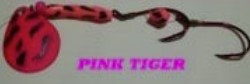
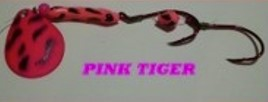
added over 50 new photos of products for image switching to use in the shop pages, optmized _productimages.js more to be easier to add more images in the future

diff --git a/frontend/src/utils/_productimages.js b/frontend/src/utils/_productimages.js
@@ -10,74 +10,154 @@
 // list of all the main images of a product
 const mainImages = [
     [   // Bling Bling
-        {type: 'image', url: require("./images/blingblingblackrussian.jpg")},   // when you come back, make sure to add all photos needed and run tests
-        {type: 'image', url: require("./images/pinacoloda.jpg")},
+        "blingblingblackrussian.jpg",
+        "blingblingsangria.jpg",
+        "blingblinggreengoblin.jpg",
+        "blingblingelectrickamikazi.jpg",
+        "blingblingpurplerain.jpg",
+        "blingblingwatermelon.jpg",
     ],
     [   // Cocktails
-        {type: 'image', url: require("./images/pinacoloda.jpg")},
+        "cocktailpinacolada.jpg",
+        "cocktailcosmo.jpg",
+        "cocktailmaitai.jpg",
+        "cocktailkaluhancream.jpg",
+        "cocktaildaquiri.jpg",
+        "cocktailappletini.jpg",
+        "cocktailmojito.jpg",
+        "cocktailtequilasunrize.jpg",
+        "cocktaildeeppurple.jpg",
+        "cocktailsingaporesling.jpg",
     ],
     [   // DS Dodgers
-        {type: 'image', url: require("./images/DSwatermelondodger.jpg")},
+        "DSwatermelondodger.jpg",
+        "DShoneydontdodger.jpg",
+        "DScantaloupedodger.jpg",
     ],
     [   // Firetiger
-        {type: 'image', url: require("./images/firetigeruv.jpg")},
+        "firetigeruv.jpg",
+        "firetigerglow.jpg",
+        "firetigerbling.jpg",
     ],
     [   // Gold Diggers
-        {type: 'image', url: require("./images/golddiggerblack.jpg")}, 
+        "golddiggerblack.jpg",
+        "golddiggerpurple.jpg",
+        "golddiggerred.jpg",
+        "golddiggergreen.jpg",
+        "golddiggerblue.jpg",
+        "golddiggerorange.jpg",
     ],
     [   // Honey Drippers
-        {type: 'image', url: require("./images/honeydripperpink.jpg")},
+        "honeydripperpink.jpg",
+        "honeydrippergreen.jpg",
+        "honeydripperorange.jpg",
+        "honeydripperchartreuse.jpg",
+        "honeydripperpurple.jpg",
     ],
     [   // Lil Comets
-        {type: 'image', url: require("./images/hollysrubyslipper.jpg")},
+        "lilcometshollysrubyslipper.jpg",
+        "lilcometsaclockworkorange.jpg",
+        "lilcometsthegreenhornet.jpg",
+        "lilcometskermit.jpg",
+        "lilcometstheflash.jpg",
+        "lilcometssourgrapes.jpg",
+        "lilcometswatermelonsugar.jpg",
+        "lilcometsbluelagoon.jpg",
+        "lilcometsthepinkanator.jpg",
     ],
     [   // Melons
-        {type: 'image', url: require("./images/watermelon.jpg")},
+        "melonswatermelon.jpg",
+        "melonsallglowwatermelon.jpg",
+        "blingblingwatermelon.jpg",
+        "melonshoneydont.jpg",
+        "melonscantaloupe.jpg",
     ],
     [   // Plum Crazy
-        {type: 'image', url: require("./images/purplenurple.jpg")},
+        "plumcrazypurplenurple.jpg",
+        "plumcrazyrazzledazzle.jpg",
+        "plumcrazygoldnplum.jpg",
     ],
     [   // Premium UV
-        {type: 'image', url: require("./images/premiumuvpink.jpg")},
+        "premiumuvpink.jpg",
+        "premiumuvgreen.jpg",
+        "premiumuvorange.jpg",
+        "premiumuvchartreuse.jpg",
     ],
     [   // Tiger
-        {type: 'image', url: require("./images/tigerpink.jpg")},
+        "tigerpink.jpg",
+        "tigergreen.jpg",
+        "tigerorange.jpg",
+        "tigerchartreuse.jpg",
+        "tigerblue.jpg",
+        "tigerglowpurple.jpg",
+        "tigerglow.jpg",
     ],
     [   // Wonderbread
-        {type: 'image', url: require("./images/wonderbreadoriginal.jpg")},
+        "wonderbreadoriginal.jpg",
+        "wonderbreadbling.jpg",
+        "wonderbreadgolden.jpg",
     ]
 ];
 
 // list of all type variants of a product
 const typeImages = [
     [   // Bling Bling
-        {type: 'image', url: require("./images/blingblingcherryfizz.jpg")},     // only test bling bling for image switching
-        {type: 'image', url: require("./images/blingblingcherryfizz.jpg")},
+        "blingblingcherryfizz.jpg",
+        "blingblingirishmist.jpg",
+        "blingblingmimosa.jpg",
+        "blingblingshamrock.jpg",
     ],
     [   // Cocktails
-        {type: 'image', url: require("./images/pinacolodadodger.jpg")},
+        "cocktailpinacoladadodger.jpg",
+        "cocktailcosmododger.jpg",
+        "cocktailkaluhancreamdodger.jpg",
+        "cocktaildaquiridodger.jpg",
+        "cocktailappletinidodger.jpg",
+        "cocktailmojitododger.jpg",
+        "cocktailsingaporeslingdodger.jpg",
     ],
     null,   // DS Dodgers
     null,   // Firetiger
     [   // Gold Diggers
-       {type: 'image', url: require("./images/flogolddiggerpink.jpg")}, 
+       "flogolddiggerpink.jpg",
+       "flogolddiggergreen.jpg",
+       "flogolddiggerorange.jpg",
+       "flogolddiggerchartreuse.jpg",
     ],
     [   // Honey Drippers
-        {type: 'image', url: require("./images/honeydripperdodgerpink.jpg")},
+        "honeydripperpinkdodger.jpg",
+        "honeydrippergreendodger.jpg",
+        "honeydripperorangedodger.jpg",
+        "honeydripperchartreusedodger.jpg",
+        "honeydripperpurpledodger.jpg",
     ],
     [   // Lil Comets
-        {type: 'image', url: require("./images/hollysrubyslipperdodger.jpg")},
+        "lilcometshollysrubyslipperdodger.jpg",
+        "lilcometsaclockworkorangedodger.jpg",
+        "lilcometsthegreenhornetdodger.jpg",
+        "lilcometskermitdodger.jpg",
+        "lilcometstheflashdodger.jpg",
+        "lilcometssourgrapesdodger.jpg",
+        "lilcometswatermelonsugardodger.jpg",
+        "lilcometsbluelagoondodger.jpg",
+        "lilcometsthepinkanatordodger.jpg",
     ],
     [   // Melons
-        {type: 'image', url: require("./images/watermelondodger.jpg")},
+        "melonswatermelondodger.jpg",
+        "melonshoneydontdodger.jpg",
+        "melonscantaloupedodger.jpg",
     ],
     [   // Plum Crazy
-        {type: 'image', url: require("./images/purplenurpledodger.jpg")},
+        "plumcrazypurplenurpledodger.jpg",
+        "plumcrazyrazzledazzledodger.jpg",
+        "plumcrazygoldnplumdodger.jpg",
     ],
     null,   // Premium UV
     null,   // Tiger
     [   // Wonderbread
-        {type: 'image', url: require("./images/wonderbreaddodgeroriginal.jpg")},
+        "wonderbreadoriginaldodger.jpg",
+        "wonderbreadblingdodger.jpg",
+        "wonderbreadgoldendodger.jpg",
     ]
 ];
 
@@ -100,16 +180,32 @@ for (let i = 0; i < mainImages.length; i++) {
     const mainImageList = mainImages[i];
     const typeImageList = typeImages[i];
 
+    const newMainImageList = [];
+    const newTypeImageList = [];
+
+    for (let j = 0; j < mainImageList.length; j++) {
+        newMainImageList.push({type: 'image', url: require("./images/" + mainImageList[j])});
+    }
+
+    if (typeImageList) {     // checks if the list is null or not
+        for (let k = 0; k < typeImageList.length; k++) {
+            newTypeImageList.push({type: 'image', url: require("./images/" + typeImageList[k])});
+        }        
+    }
+    else {
+        newTypeImageList.push(null);
+    }
+
     // Create the structure for this iteration
-    const mediaItem = [
+    const productImgs = [
         [
-            mainImageList
+            newMainImageList
         ],
         [
-            typeImageList   // if null it will put null inside this list
+            newTypeImageList
         ]
     ];
 
     // Push the mediaItem to ProductsMedia
-    ProductsMedia.push(mediaItem);
+    ProductsMedia.push(productImgs);
 };

diff --git a/frontend/src/components/ShopPanel/Products.js b/frontend/src/components/ShopPanel/Products.js
@@ -56,11 +56,11 @@ const product_prices = [
 // all product options
 const product_options = [
     ["Black Russian", "Sangria", "Green Goblin", "Electric Kamikazi", "Purple Rain", "Watermelon"], // Bling Bling
-    ["Pina Colada", "Cosmo", "Mai Tai", "Kaluaha N Cream", "Daquiri", "Appletini", "Mojito", "Tequilla Sunrize", "Deep Purple", "Sinapore Sling"],  // Cocktails
+    ["Pina Colada", "Cosmo", "Mai Tai", "Kaluha N Cream", "Daquiri", "Appletini", "Mojito", "Tequilla Sunrize", "Deep Purple", "Sinapore Sling"],  // Cocktails
     ["Watermelon", "Honey Don't", "Cantaloupe"],    // DS Dodgers
     ["UV Firetiger", "Glowing Firetiger", "Bling Firetiger"],   // Firetiger
     ["Black", "Purple", "Red", "Green", "Blue", "Orange"],   // Gold Diggers
-    ["Pink", "Green", "Orange", "Chartruese", "Purple"],    // Honey Drippers
+    ["Pink", "Green", "Orange", "Chartreuse", "Purple"],    // Honey Drippers
     ["Holly's Ruby Slipper", "A Clockwork Orange", "The Green Hornet", "Kermit", "The Flash", "Sour Grapes", "Watermelon Sugar", "Blue Lagoon", "The Pinkanator"],  // Lil Comets
     ["Watermelon", "All Glow Watermelon", "Bling Melon", "Honey Don't", "Cantaloupe"],   // Melons
     ["Purple Nurple", "Razzle Dazzle", "Gold N Plum"],   // Plum Crazy
@@ -100,7 +100,7 @@ const product_dodgers = [
         hosted_button_id: "JSK5UU2SZT63S",
         productName: "Honey Dripper",
         price: 7.49,
-        options: ["Pink", "Green", "Orange", "Chartruese", "Purple"],
+        options: ["Pink", "Green", "Orange", "Chartreuse", "Purple"],
     },  // Honey Drippers
     {
         hosted_button_id: "LRHUVNNZD9LRN",
@@ -112,7 +112,7 @@ const product_dodgers = [
         hosted_button_id: "NJXCEJKUBRKH2",
         productName: "Melon",
         price: 6.99,
-        options: ["Watermelon", "Honey Don't", "The Green Hornet"],
+        options: ["Watermelon", "Honey Don't", "Cantaloupe"],
     },  // Melons
     {
         hosted_button_id: "UU9TH8P32ZESE",

diff --git a/frontend/static/css/shop.css b/frontend/static/css/shop.css
@@ -109,6 +109,7 @@
     max-width: 100%;
     max-height: 100%;
     border-radius: 5px;
+    border: 2px solid rgb(90, 90, 90);
 }
 
 .back-to-shop-img {
@@ -293,6 +294,11 @@
 }
 
 @media only screen and (max-width: 350px) {
+    .add-cart-product-name, .add-cart-product-name-top-type,
+    .add-cart-product-name-bottom-type {
+        font-size: 30px;
+    }
+    
     .shop-list-product-name {
         font-size: 19.4px;
     }
@@ -311,13 +317,13 @@
 @media only screen and (max-width: 320px) {
     .add-cart-product-name, .add-cart-product-name-top-type,
     .add-cart-product-name-bottom-type {
-        font-size: 30px;
+        font-size: 28px;
     }
 }
 
 @media only screen and (max-width: 311px) {
     .shop-list-product-name {
-        font-size: 26px;
+        font-size: 24px;
     }
 
     .product-item {

diff --git a/frontend/src/components/ShopPanel/AddToCartPanel.js b/frontend/src/components/ShopPanel/AddToCartPanel.js
@@ -11,7 +11,6 @@ const AddToCartPanel = ({ currentProduct, isSpinBug, isDodger, isFlourescent }) 
     const [currentFlourescentProductImg, setCurrentFlourescentProductImg] = useState('');
     const [currentProductImg, setCurrentProductImg] = useState('');
 
-    // which type of product to create panel for
     useEffect(() => {
         if (isDodger) {
             setCurrentDodgerProductImg(product.productImageList[0].url);
@@ -38,6 +37,7 @@ const AddToCartPanel = ({ currentProduct, isSpinBug, isDodger, isFlourescent }) 
         }
     };
 
+    // which type of product to create panel for
     let product;
     if (isDodger) {
         product = PRODUCTS[currentProduct].dodger;
